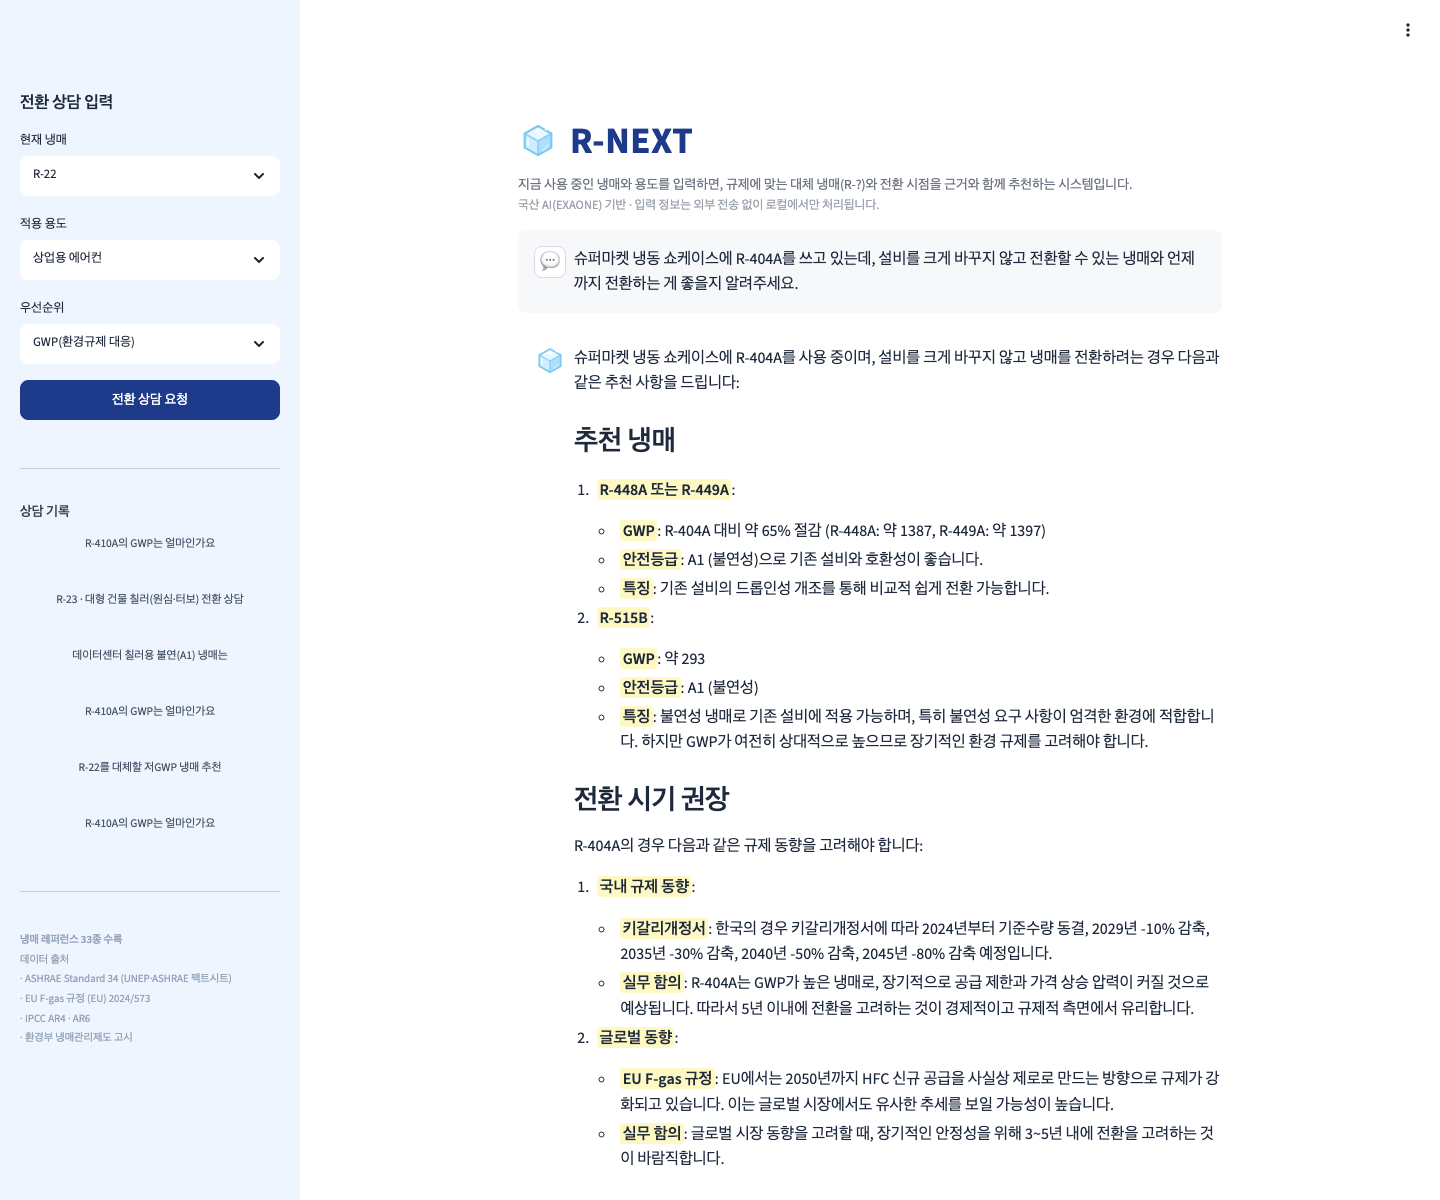
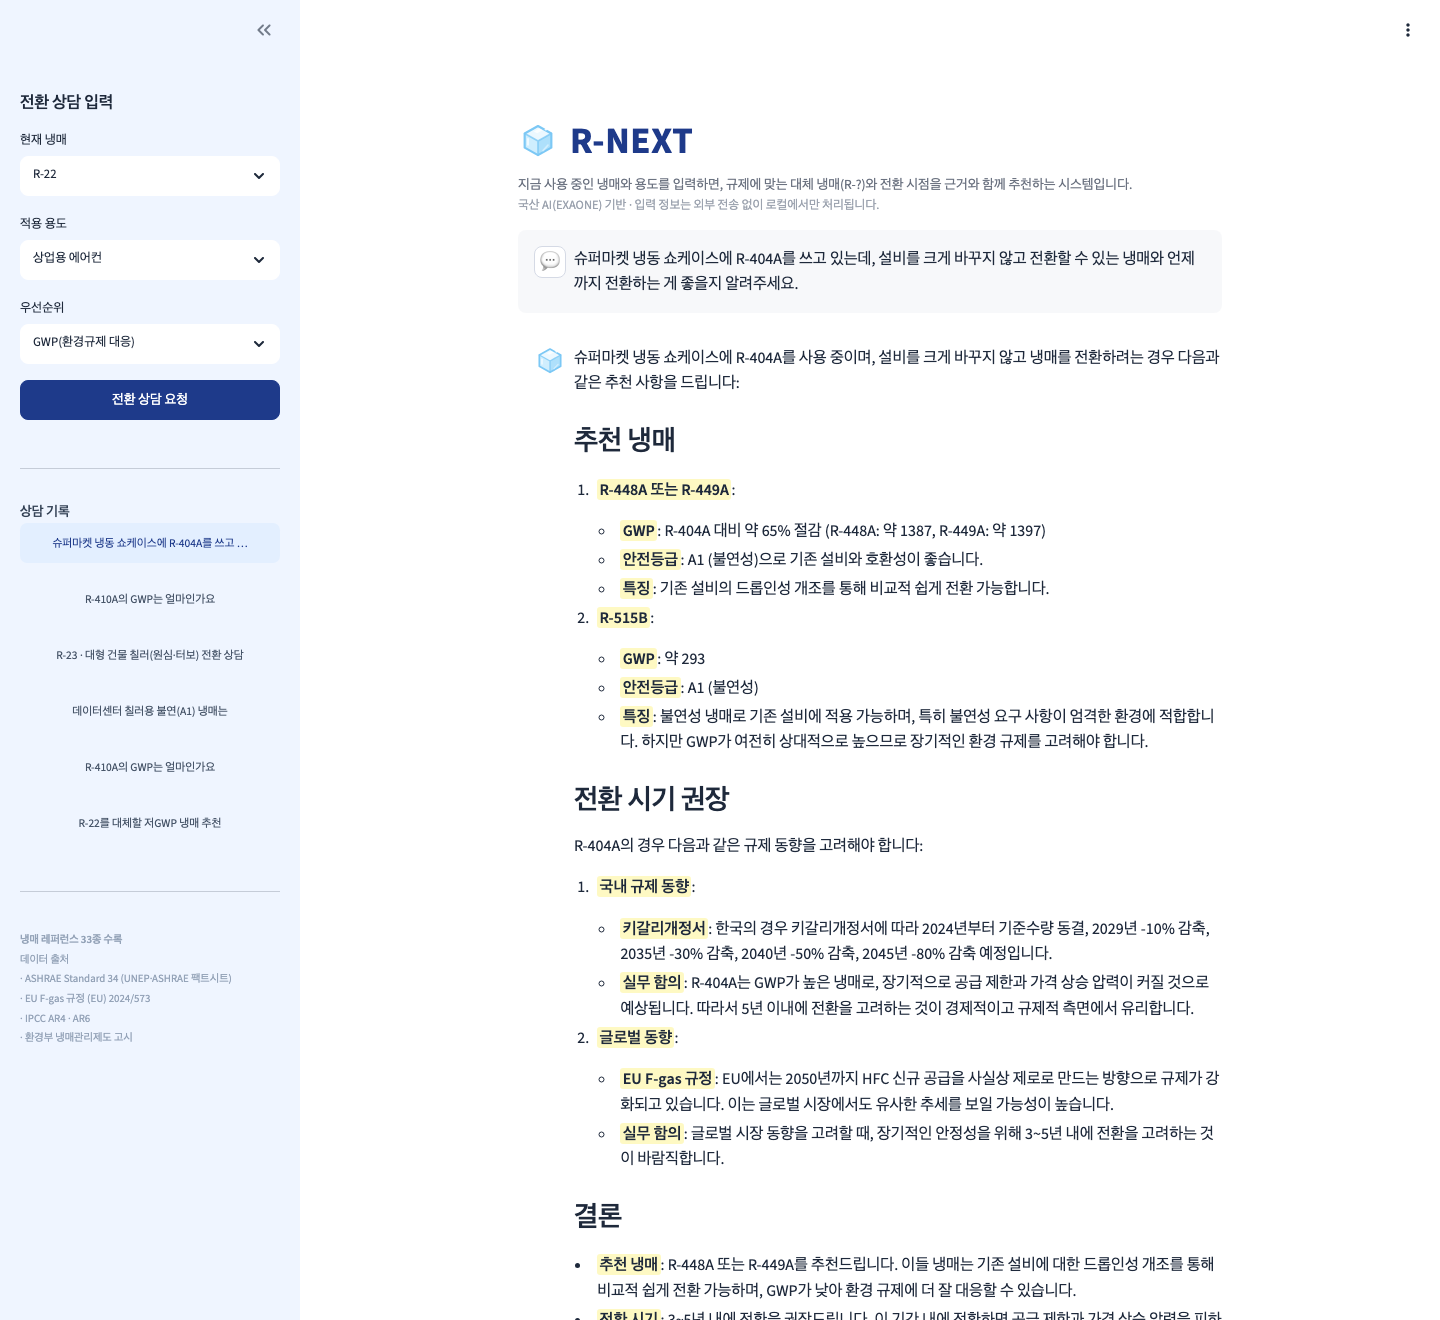
스크린샷 재촬영(출처 잘림 해결)·물결표 취소선 렌더링 수정
- 사이드바 데이터 출처가 온전히 보이도록 뷰포트 확대 후 재촬영
- 전력밀도 범위 표기 5~15kW를 5–15kW로 변경 (GitHub가 ~쌍을 취소선으로 해석)

diff --git a/냉매전환어드바이저_설계서.md b/냉매전환어드바이저_설계서.md
@@ -8,7 +8,7 @@
 
 ### 1-1. AI 도입이 만든 냉각 수요의 급팽창
 
-AI의 사회 전반 도입이 가속되면서 데이터센터가 국가 핵심 인프라로 부상했다. 고성능 GPU 서버가 대거 투입되며 랙당 전력밀도는 기존 5~15kW에서 50~130kW 수준으로 급증했고, 기존 공랭식 냉각으로는 이 발열 밀도를 감당할 수 없게 되었다. IEA 전망 기준 글로벌 데이터센터 전력 소비는 2024년 415TWh에서 2030년 945TWh로 두 배 이상 늘어난다. 국내 역시 정부가 2026년까지 GPU 2만 장 도입을 목표로 하고 있으나, 수도권 데이터센터의 약 95%가 이를 수용할 냉각 인프라를 갖추지 못한 상태로 지적되고 있으며, AI 데이터센터 진흥을 위한 특별법(AIDC 특별법)이 2026년 4월 국회 상임위를 통과하는 등 제도적 대응도 본격화되고 있다. 요컨대 냉각은 더 이상 부차적 설비가 아니라 AI 인프라 자체를 결정하는 병목이 되었다.
+AI의 사회 전반 도입이 가속되면서 데이터센터가 국가 핵심 인프라로 부상했다. 고성능 GPU 서버가 대거 투입되며 랙당 전력밀도는 기존 5–15kW에서 50–130kW 수준으로 급증했고, 기존 공랭식 냉각으로는 이 발열 밀도를 감당할 수 없게 되었다. IEA 전망 기준 글로벌 데이터센터 전력 소비는 2024년 415TWh에서 2030년 945TWh로 두 배 이상 늘어난다. 국내 역시 정부가 2026년까지 GPU 2만 장 도입을 목표로 하고 있으나, 수도권 데이터센터의 약 95%가 이를 수용할 냉각 인프라를 갖추지 못한 상태로 지적되고 있으며, AI 데이터센터 진흥을 위한 특별법(AIDC 특별법)이 2026년 4월 국회 상임위를 통과하는 등 제도적 대응도 본격화되고 있다. 요컨대 냉각은 더 이상 부차적 설비가 아니라 AI 인프라 자체를 결정하는 병목이 되었다.
 
 ### 1-2. 냉각 전환은 곧 냉매·유체 전환이다
 

diff --git a/README.md b/README.md
@@ -28,7 +28,7 @@
 
 ## 왜 만들었나
 
-- AI 데이터센터 확산으로 랙당 전력밀도가 5~15kW → 50~130kW로 급증하며 **냉각이 AI 인프라의 병목**이 됐고, 냉각 전환은 곧 "어떤 냉매를 쓸 것인가"의 문제가 됐습니다.
+- AI 데이터센터 확산으로 랙당 전력밀도가 기존 5–15kW에서 50–130kW 수준으로 급증하며 **냉각이 AI 인프라의 병목**이 됐고, 냉각 전환은 곧 "어떤 냉매를 쓸 것인가"의 문제가 됐습니다.
 - 키갈리개정서(한국: 2024 동결 → 2045 −80%), HCFC 퇴출, EU F-gas, PFAS 논의까지 **규제가 전환을 강제**하는데, 잘못된 냉매 선택은 수천억 원대 설비의 재전환 비용으로 돌아옵니다.
 - 그런데 판단에 필요한 정보(GWP·안전등급·감축 일정·대체냉매)는 국제협약·환경부 고시·제조사 자료에 **흩어져 있습니다**. 현장 실무자를 위한 통합 의사결정 도구가 없다는 것이 이 프로젝트의 출발점입니다.
 

diff --git a/프로젝트_보고서.md b/프로젝트_보고서.md
@@ -12,7 +12,7 @@
 
 ## 2. 문제 정의
 
-- AI 데이터센터 확산 → 랙당 전력밀도 5~15kW에서 50~130kW로 급증 → 냉각이 AI 인프라의 병목
+- AI 데이터센터 확산 → 랙당 전력밀도가 기존 5–15kW에서 50–130kW 수준으로 급증 → 냉각이 AI 인프라의 병목
 - 냉각 전환은 곧 냉매·유체 선택의 문제 (칠러 작동유체 + 서버 냉각액)
 - 규제 압력 중첩: 키갈리개정서 HFC 감축(한국 2024 동결 → 2045 -80%), HCFC 퇴출, EU F-gas, PFAS 논의
 - **문제**: 판단에 필요한 정보(GWP·안전등급·규제 일정·대체냉매)가 국제협약·고시·기술자료에 흩어져 있어, 현장 실무자를 위한 통합 지원 도구가 부재
